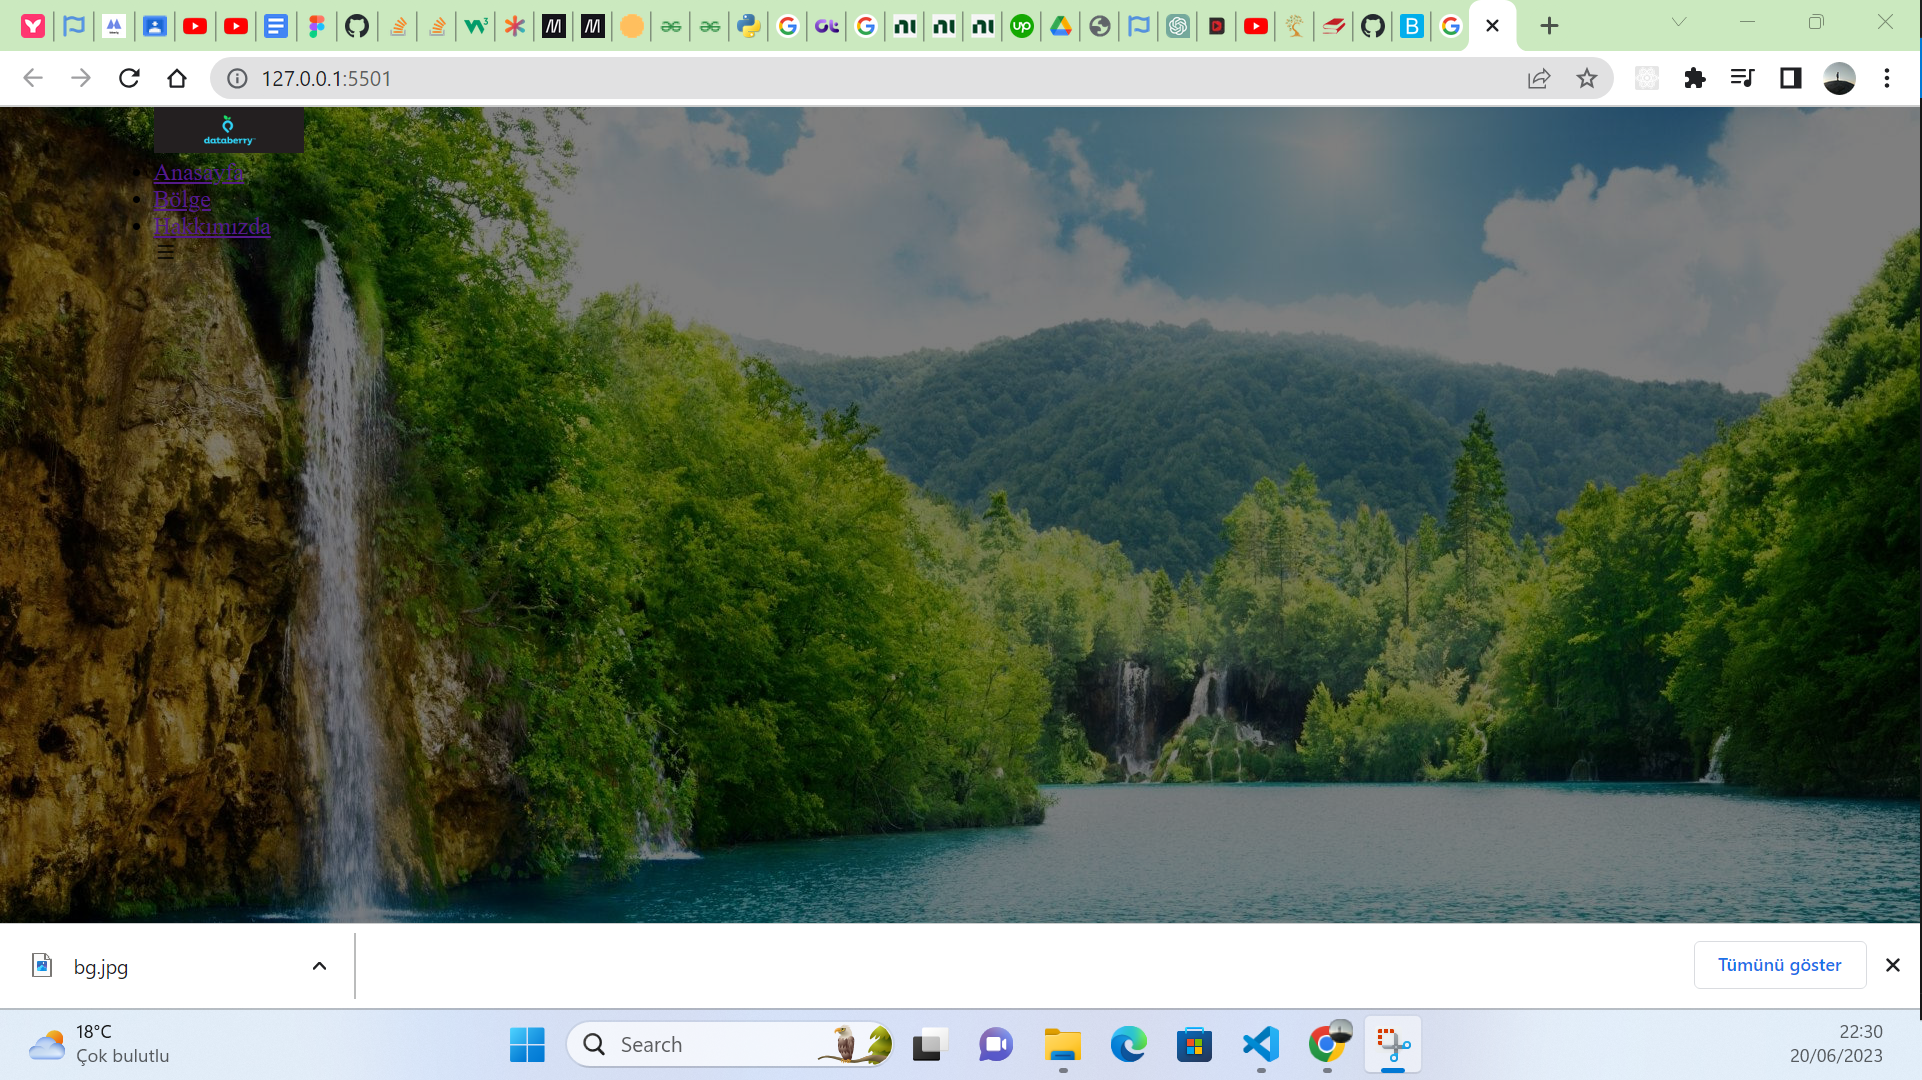
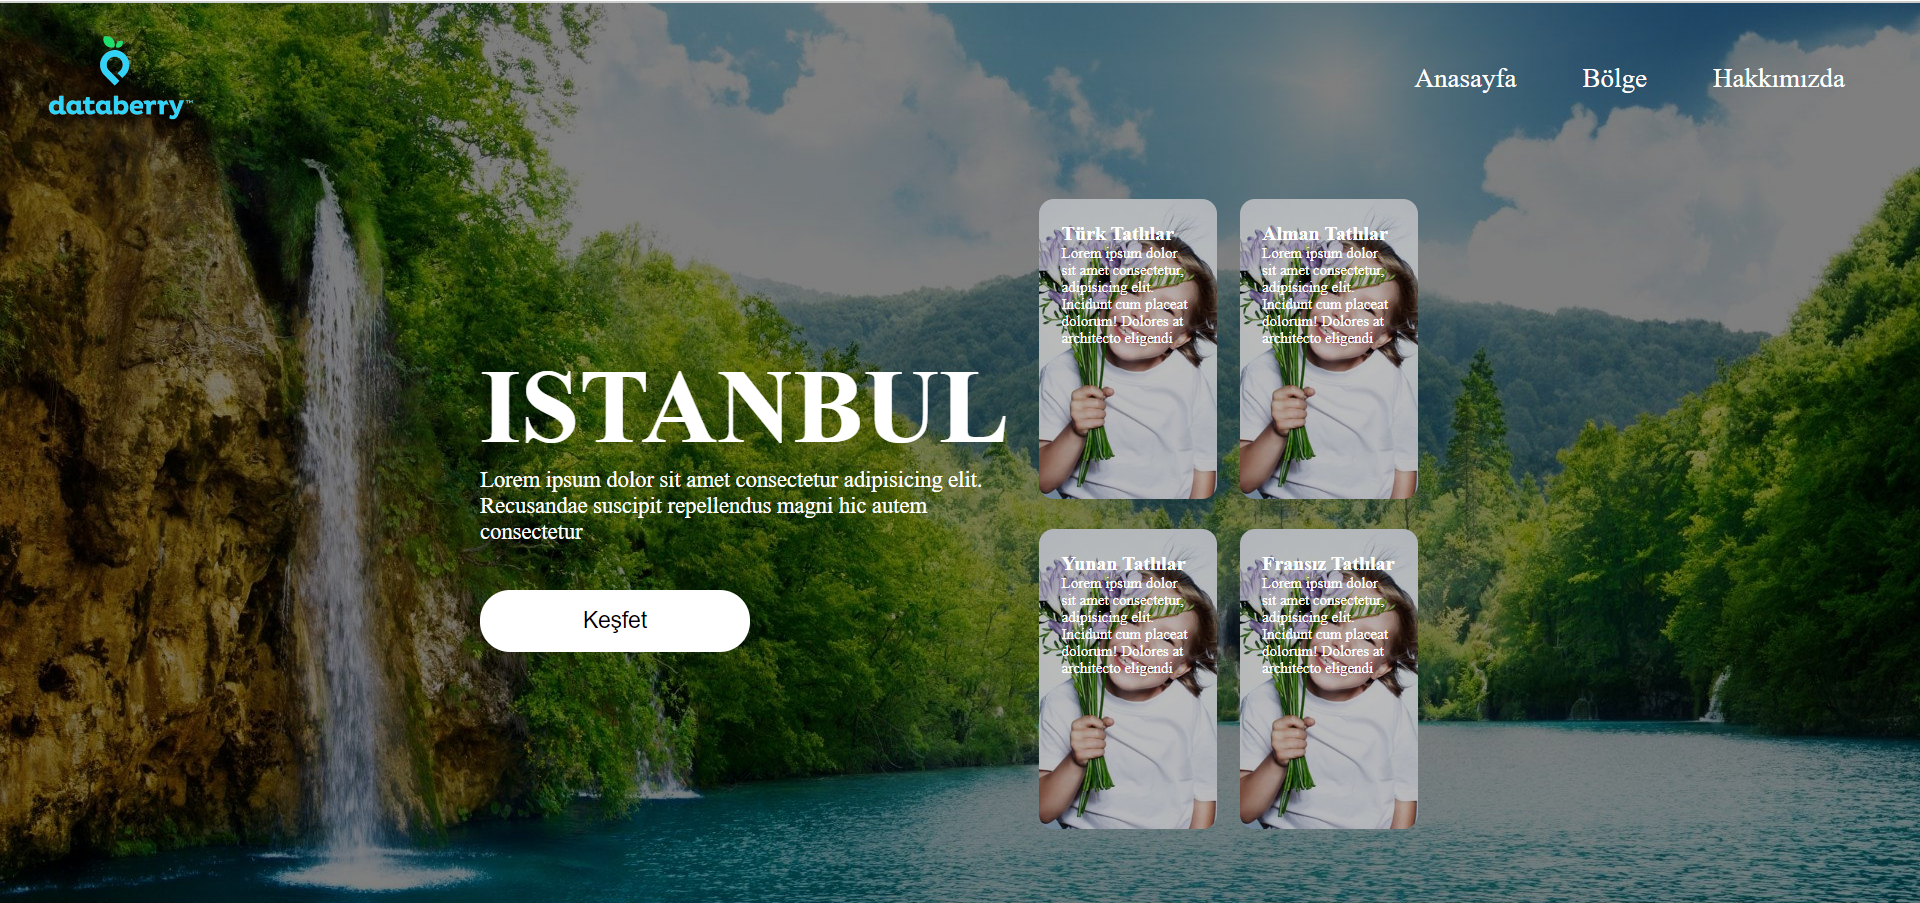
Last Commit for SweepApp

diff --git a/style.css b/style.css
@@ -1,5 +1,6 @@
+/*index.html de yer alan tüm elemanlar için*/
 *{
-    margin: 0px;
+    margin: 0px;/*varsayılan olarak gelen margin ve paddingleri sıfırla*/
     padding: 0px;
 }
 /*container area*/
@@ -21,10 +22,12 @@
 }
 .navbar{
     /* background-color: antiquewhite; */
-    height: 80px;
+    height: 100px;
     display: flex;/*navbar class ı içerisindeki tüm tagleri(image nav ve menu-icon div) yan yana sıralar*/
     align-items: center;
     justify-content: space-between;
+    position: relative;
+    z-index: 10;
 }
 
 .bi{
@@ -101,8 +104,12 @@ nav ul li a{
     overflow: auto;
     align-items: center;
 }
+/*scroll bar nesnesine eriş ve */
+.row::-webkit-scrollbar{
+    display: none;/*ortadan kaldır*/
+}
 .col{
-    flex-basis: 40%;
+    flex-basis: 45%;
 }
 h1{
     /* color:white; */
@@ -126,9 +133,17 @@ button{
     outline: none;
     margin-top: 30px;
 }
+button:hover{
+   background-color: black;
+   color: white;
+   transition: 0.3s;
+   cursor: pointer; 
+   font-size: 17px;
+}
 .col-card{
     display: grid;
     grid-template-columns: 1fr 1fr;
+    /* background-color: aqua; */
 }
 .card{
     /* width: 45%; */
@@ -136,7 +151,9 @@ button{
     padding: 15px;
     box-sizing: border-box;
     cursor: pointer;
-    margin:15px;
+    margin-top:20px;
+    margin-right: 15px
+    ;
     background-image: linear-gradient(rgba(0,0,0,0.25),rgba(0,0,0,0.25)), url(./images//person1.jpeg);
     /* background-image: url(./images//person1.jpeg);  */
     /* background-size:200px; */
@@ -148,6 +165,7 @@ button{
 }
 .card:hover {
     transform: translateY(-10px);
+    box-shadow: 0 0 10px whitesmoke;
 }
 /*responsive settings*/
 @media  (max-width:768px){
@@ -159,5 +177,21 @@ button{
     }
     .row{
         display: block;
+        /* flex-direction: column; */
+    }
+    .card{
+        height: 200px;
+        transition: .3s;
+        margin-left: 0;
+    }
+    h1{
+        font-size: 50px;
+    }
+    .col p{
+        font-size: 13px;
+    }
+    .button{
+        width: 100px;
+        margin-top: 10px;
     }
 }

diff --git a/index.html b/index.html
@@ -3,7 +3,7 @@
 <head>
     <meta charset="UTF-8">
     <meta name="viewport" content="width=device-width, initial-scale=1.0">
-    <title>Document</title>
+    <title>SweetApp</title>
     <link rel="stylesheet" href="./style.css">
     <link rel="stylesheet" href="https://cdn.jsdelivr.net/npm/bootstrap-icons@1.10.2/font/bootstrap-icons.css">
 </head>
@@ -20,9 +20,9 @@
                     <li><a href="#">Hakkımızda</a></li>
                 </ul>
             </nav>
-            <div class="menu-icon">
+            <!-- <div class="menu-icon"> -->
                 <i class="bi bi-list"></i>
-            </div>
+            <!-- </div> -->
         </div>
         <!--content-->
         <div class="row">
